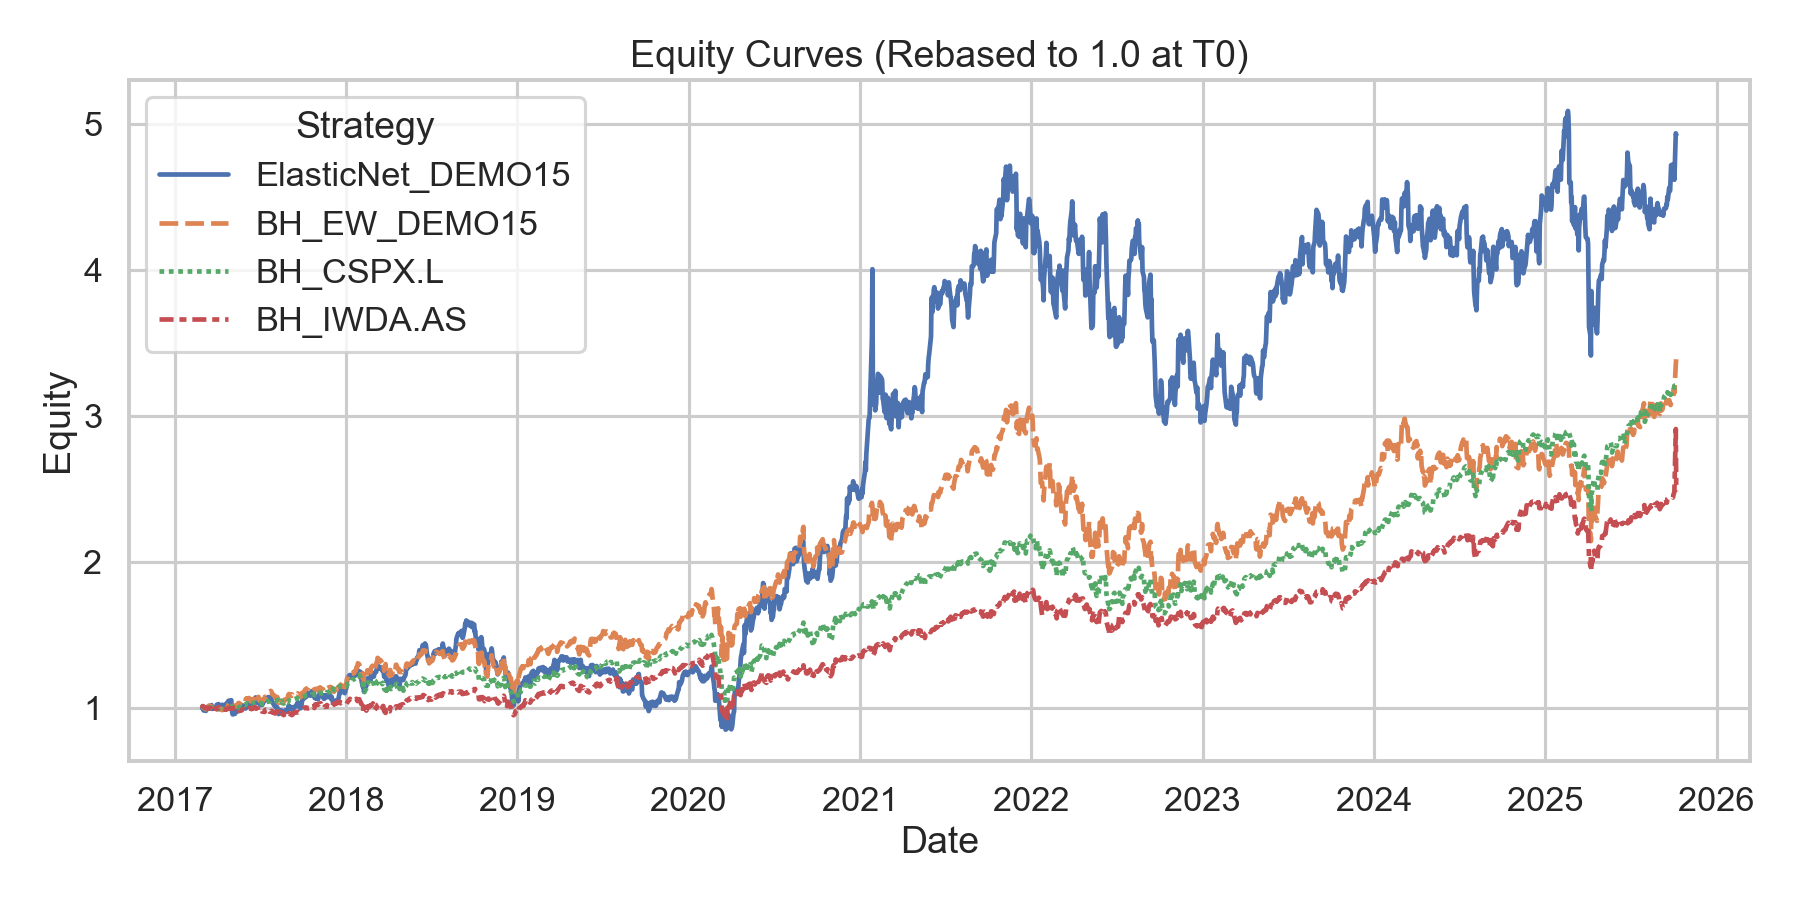
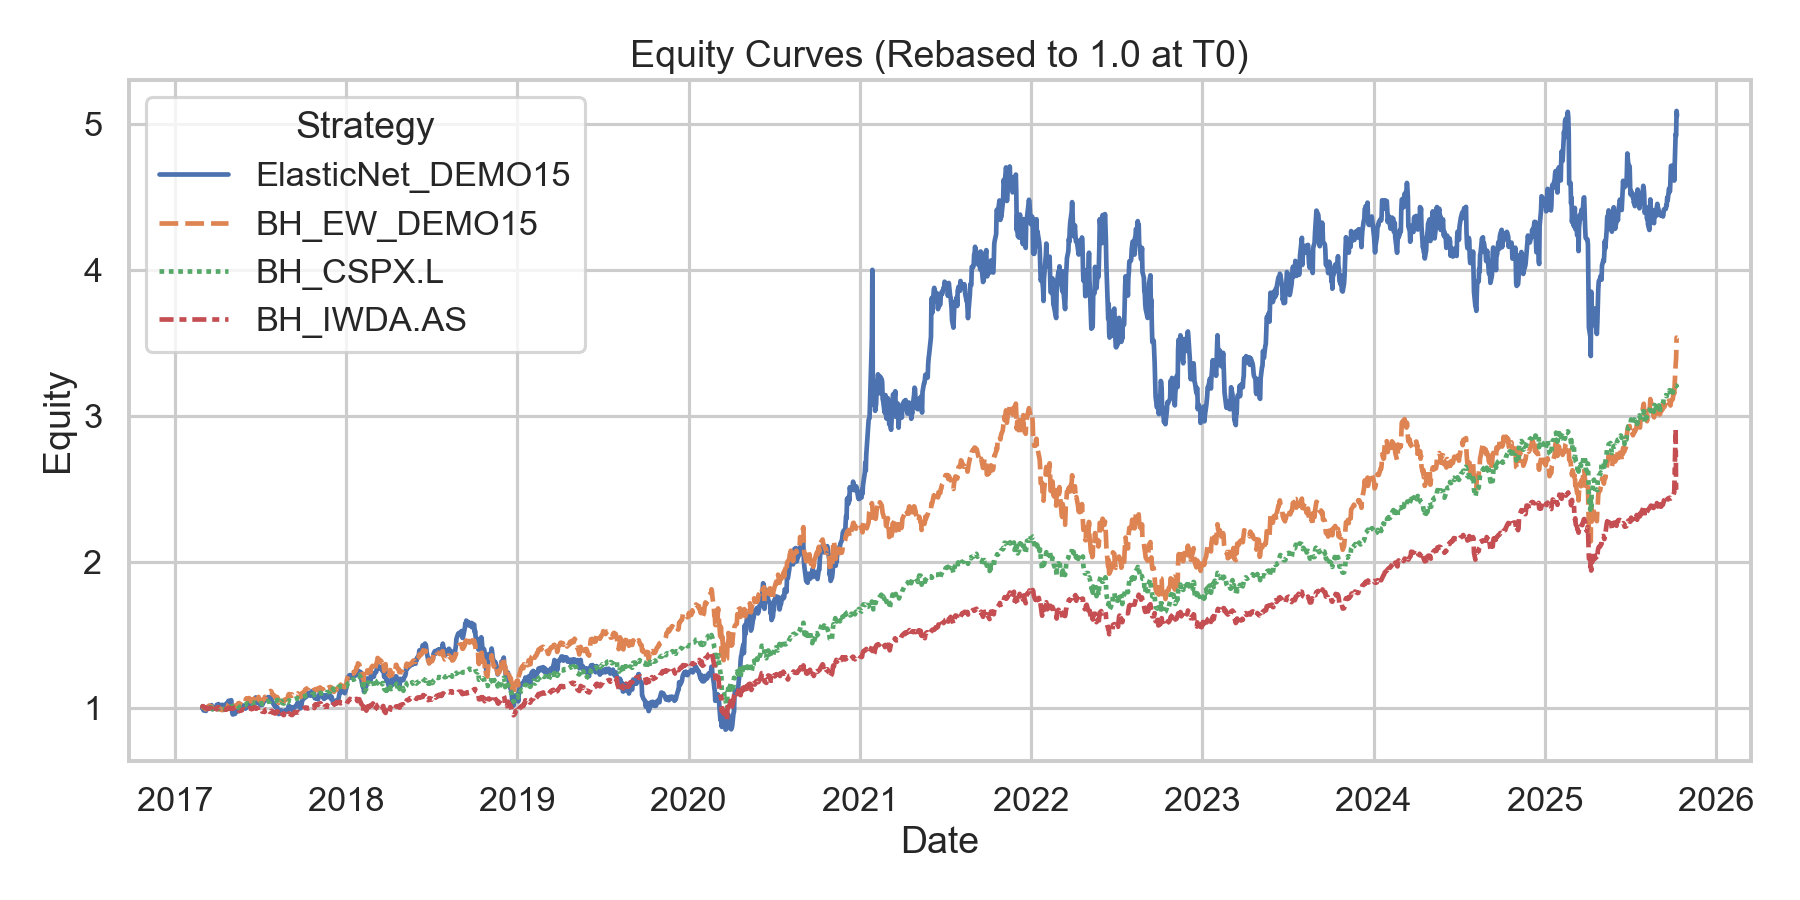
Readme update

diff --git a/README.md b/README.md
@@ -1,6 +1,6 @@
 # ML Equity Backtester — Walk-Forward Machine Learning and Quantitative Strategy Evaluation
 
-In this project I exploresworkflows for **backtesting trading strategies**, with a focus on **machine-learning-driven approaches**, including:
+In this project I explore workflows for **backtesting trading strategies**, with a focus on **machine-learning-driven approaches**, including:
 - Fetching market data via API
 - Managing, curating, storing, and preparing data
 - Computing features (Lookback-skip momentum, volatility, ...)
@@ -61,12 +61,12 @@ pixi run demo_elasticnet_topn
 
 The demo uses the config file `config/DEMO15_config.yaml` and you should see an output log similar to this:
 ```bash
-10-10-2025 01:14:20 | INFO | Run ID: 20251009-231419+0000_87c9ac90
-10-10-2025 01:14:20 | INFO | Strategy start: 2017-02-28, end: 2025-10-07
-10-10-2025 01:14:20 | INFO | Top-N selected: 5 | cost_bps: 5.0
-10-10-2025 01:14:20 | INFO | Metrics | TR: 392.30% | Sharpe: 0.73 | CAGR: 20.35% | MaxDD: 46.68% | Ann. Vol: 33.09% | Ann. avg. turnover: 104.83%
-10-10-2025 01:14:20 | INFO | Performance vs | [BH_EW_DEMO15] 5.09% CAGR, 0.02 Sharpe | [BH_EW_IWDA.AS] 9.20% CAGR, 0.04 Sharpe | [BH_EW_CSPX.L] 5.85% CAGR, -0.15 Sharpe
-10-10-2025 01:14:20 | INFO | Output files saved to outputs/backtests/20251009-231419+0000_87c9ac90
+10-10-2025 13:54:30 | INFO | Run ID: 20251010-115430_87c9ac90
+10-10-2025 13:54:30 | INFO | Strategy start: 2017-02-28, end: 2025-10-09
+10-10-2025 13:54:30 | INFO | Top-N selected: 5 | cost_bps: 5.0
+10-10-2025 13:54:30 | INFO | Metrics | TR: 406.06% | Sharpe: 0.74 | CAGR: 20.72% | MaxDD: 46.68% | Ann. Vol: 33.09% | Ann. avg. turnover: 104.83%
+10-10-2025 13:54:30 | INFO | Performance vs | [BH_EW_DEMO15] 4.91% CAGR, 0.01 Sharpe | [BH_CSPX.L] 6.26% CAGR, -0.14 Sharpe | [BH_IWDA.AS] 9.46% CAGR, 0.04 Sharpe
+10-10-2025 13:54:30 | INFO | Output files saved to outputs/backtests/20251010-115430_87c9ac90
 ```
 
 ### Example Strategy vs. Benchmark Performance
